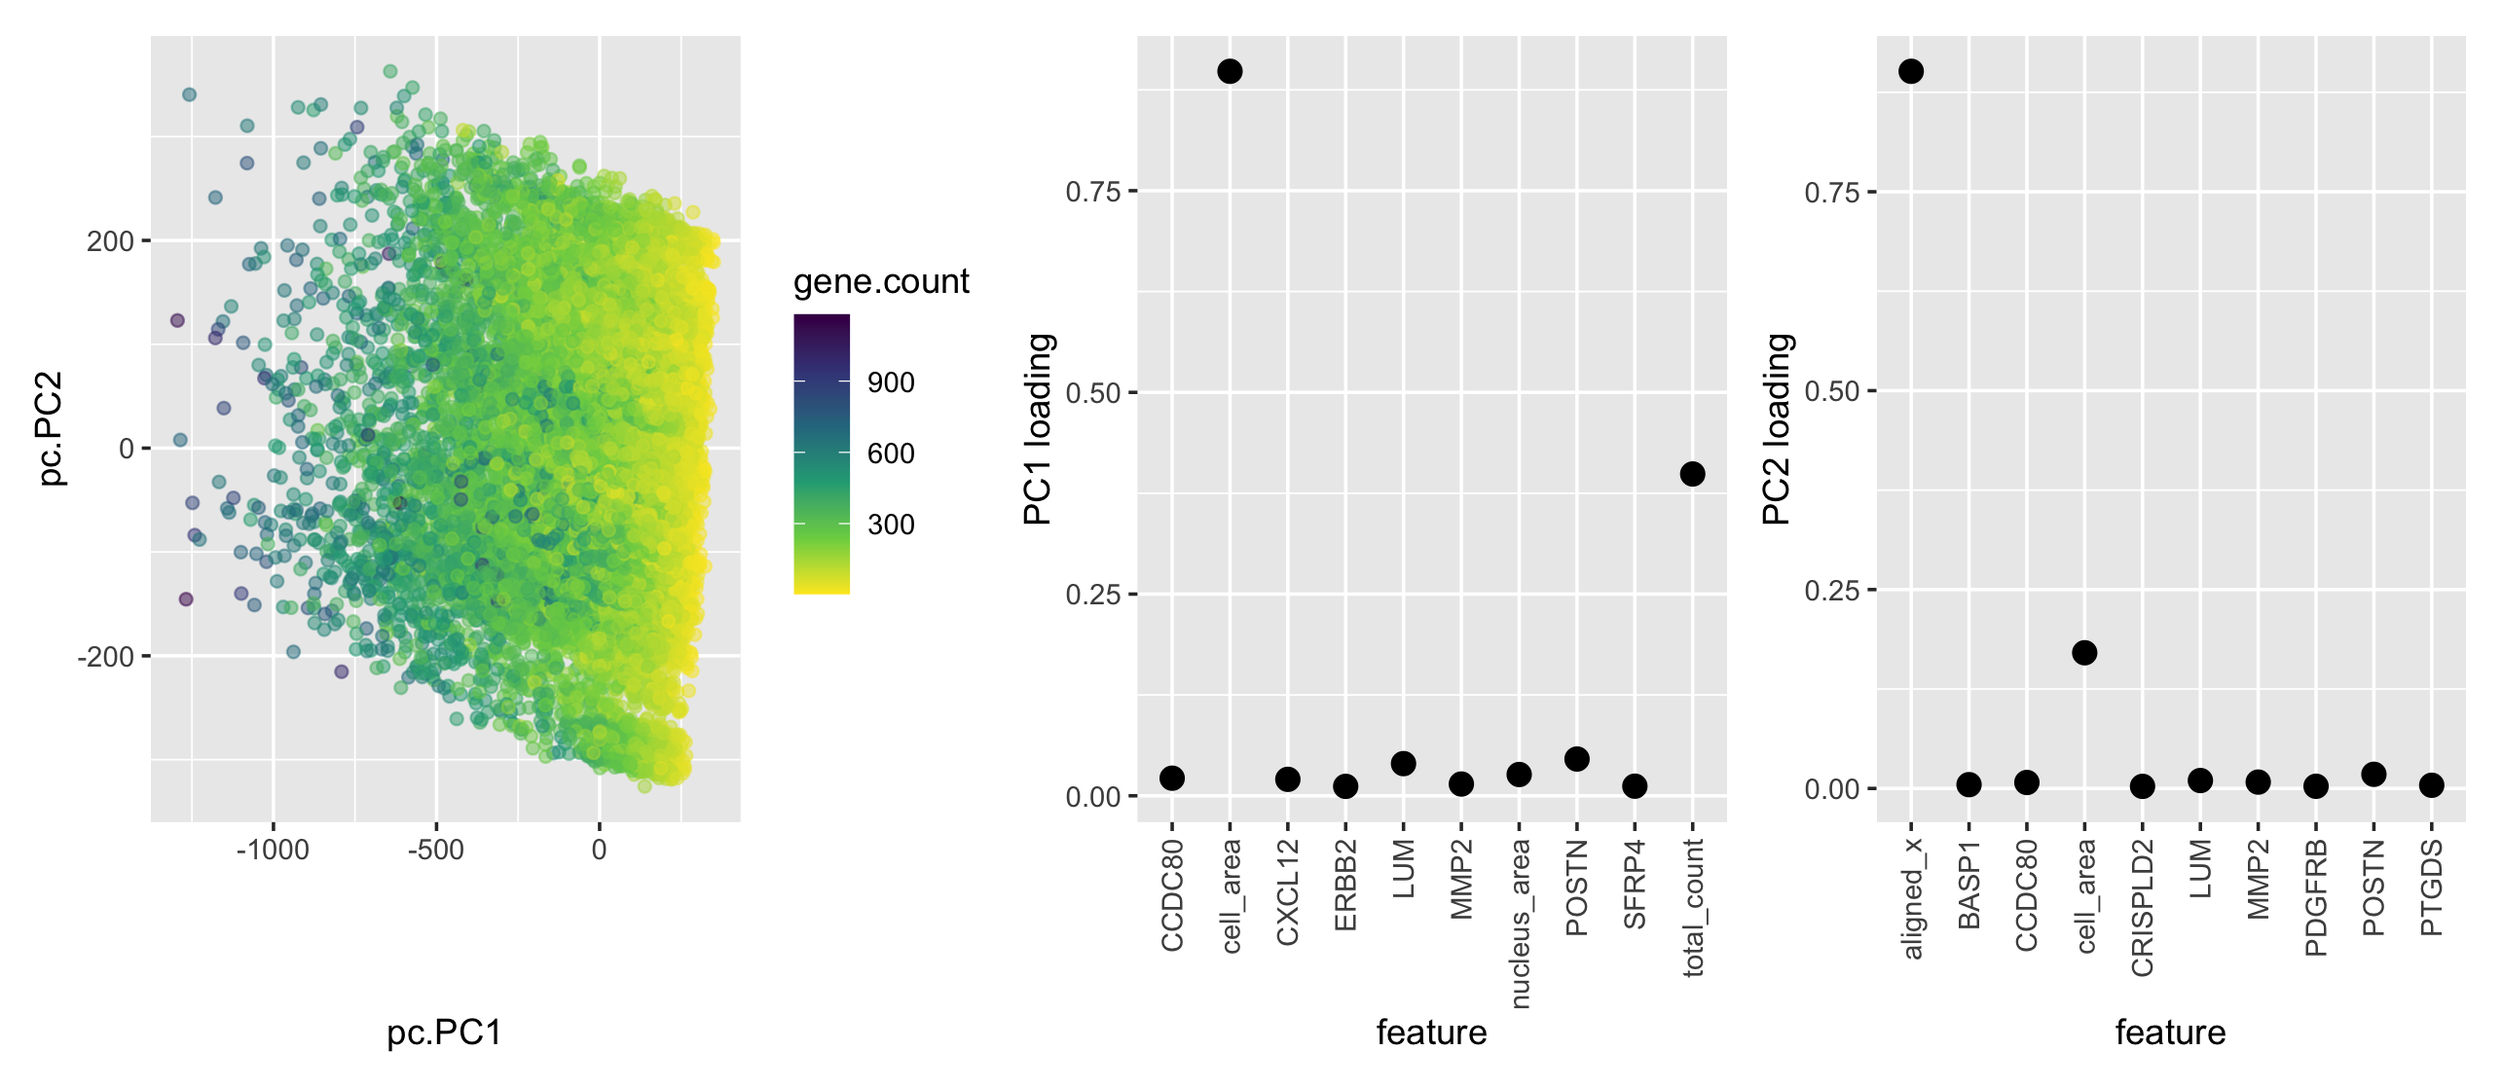
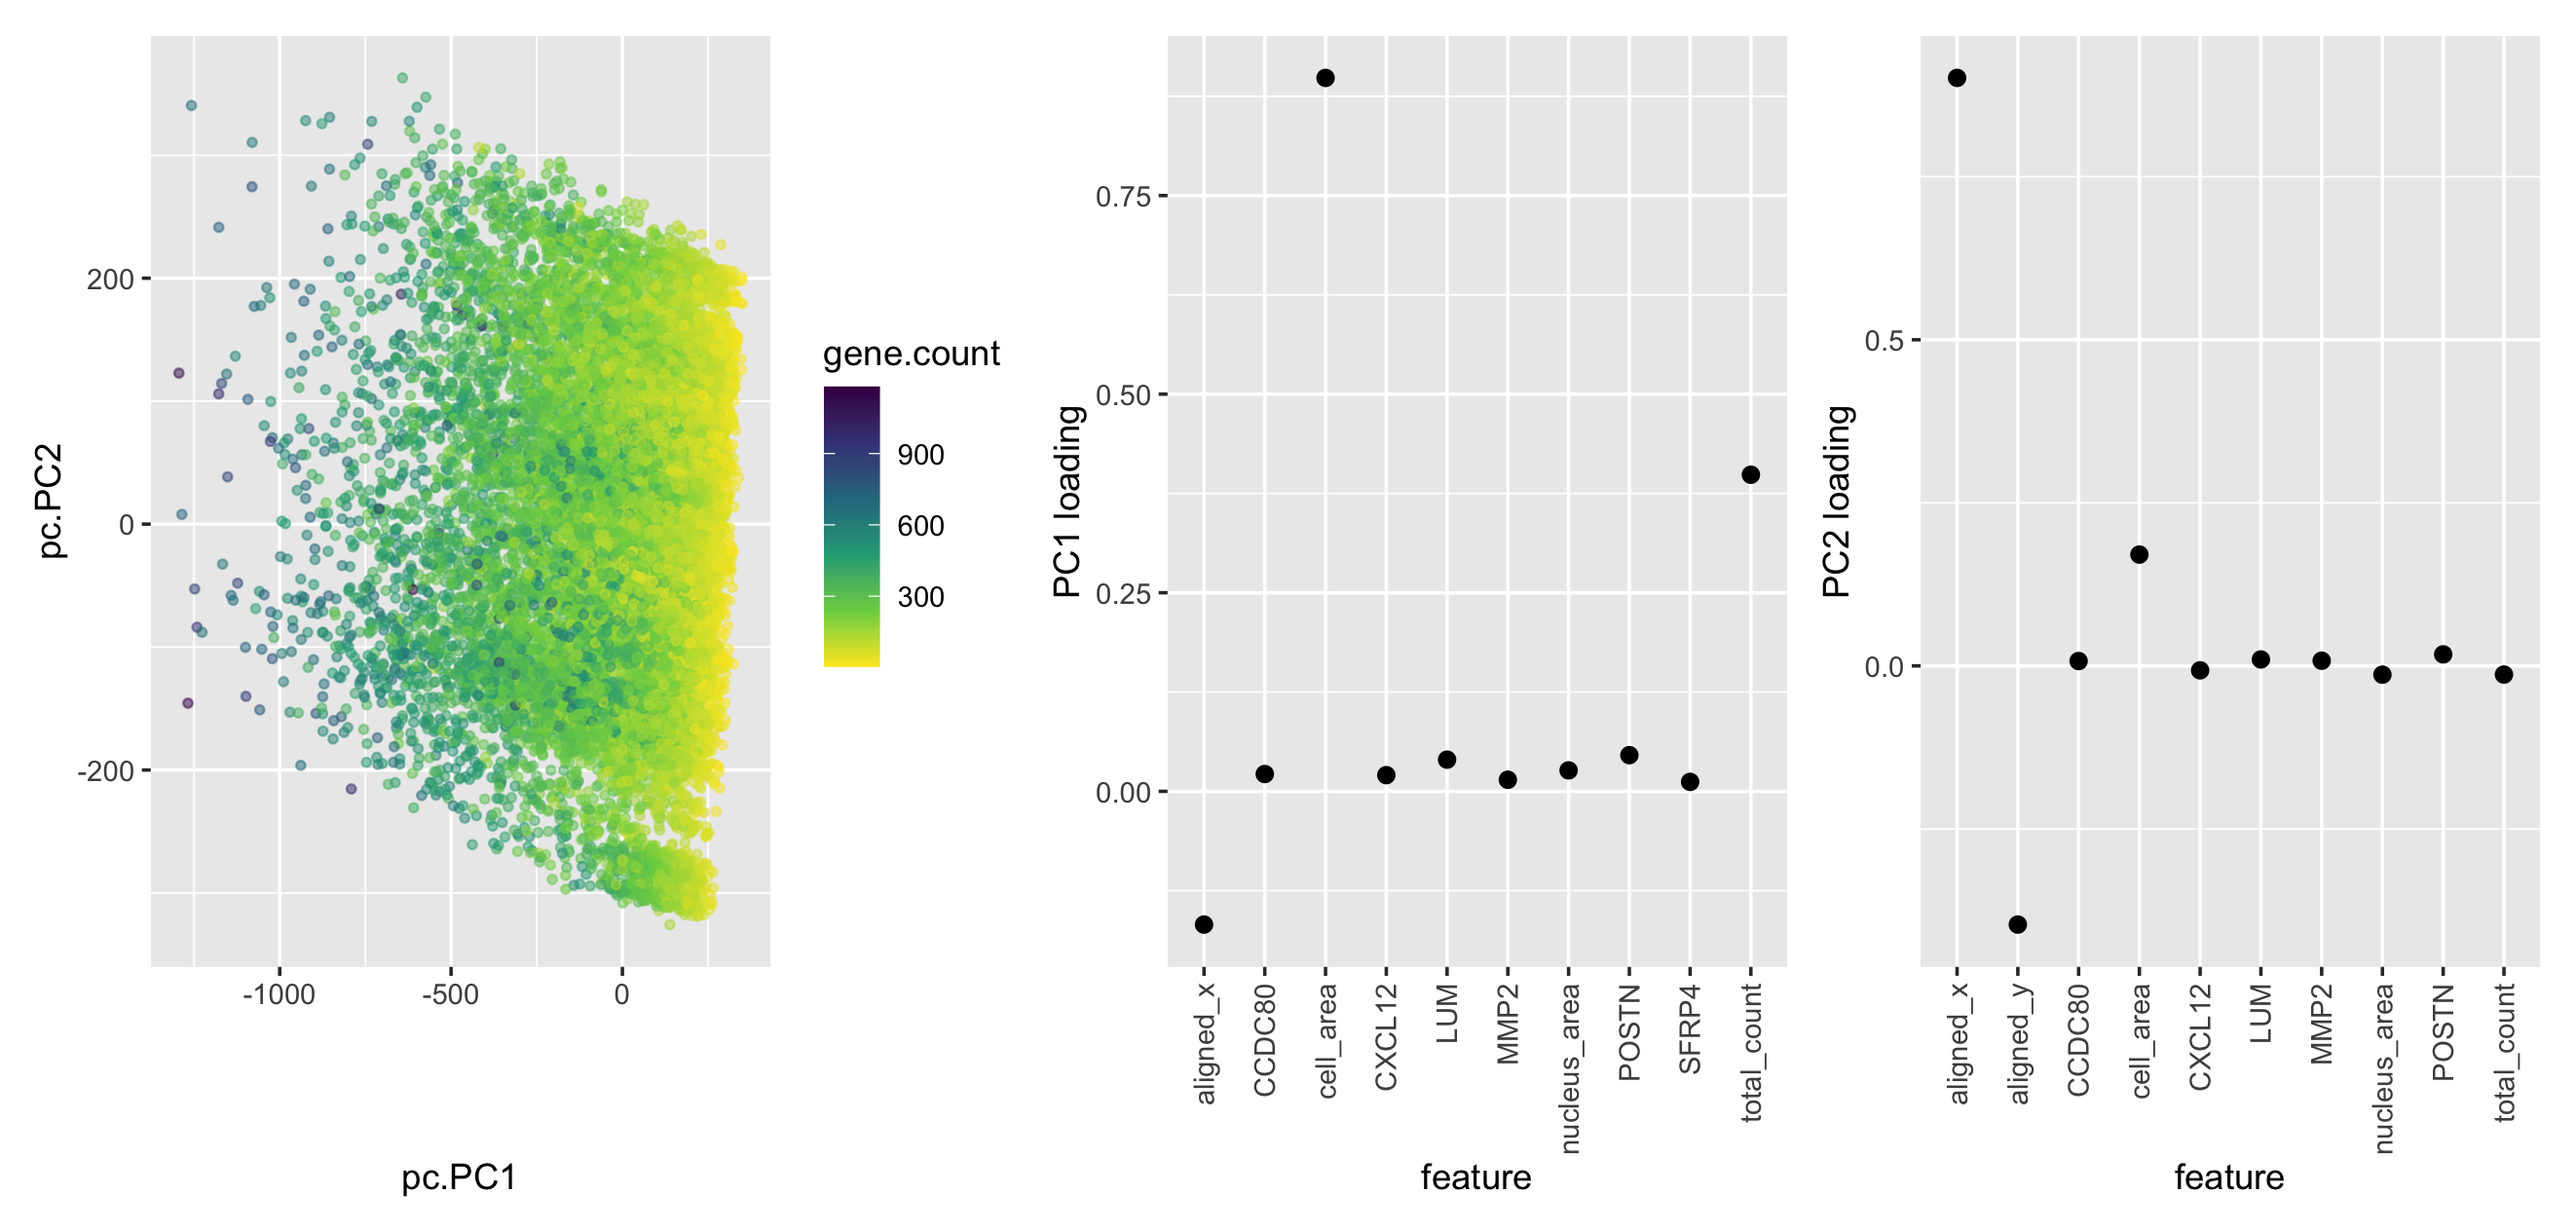
revise hw3 png and md files

diff --git a/_posts/2024-02-04-yyan67.md b/_posts/2024-02-04-yyan67.md
@@ -10,8 +10,9 @@ featured: false
 
 ## What genes (or other cell features such as area or total genes detected) are driving my reduced dimensional components?
 
-Write a description describing your data visualization using vocabulary terms from Lesson 1. You must include the entire code you used to generate the figure so that it can be reproduced. You must provide attribution to external resources referenced (if any) in writing your code. 
+My plot includes three panels, which are respectively the PC plot with each cell labeled by gene count, top 10 features with the highest absolute loading value in PC1, top 10 features with the highest absolute loading values in PC2. In the PC plot, I am using the geometric primitive of points to represent each cell. To encode the total gene count, I am using the visual channel of color hue. To encode the PC1 and PC2 position, I am using the visual channel of position along the PC1 and PC2 axis. I applied the Gestalt principle, similarity, by using similar color for cells with similar total gene counts. In the two PC loading plots, I am using the geometric primitive of points to represent each loading value corresponding to each feature. For the visual channel, I am using the position of y to represent loading values. 
 
+As we can observe from the second plot, aligned_x, cell_area, and total_count of genes, which have the largest absolute values of loading, for each cell are driving PC1. The third plot demonstrates that aligned_x, aligned_y, and cell_area are driving PC2. 
 
 ## Please share the code you used to reproduce this data visualization.
 ```{r}
@@ -40,3 +41,6 @@ p3 <- load.df %>% top_n(10, Comp.2) %>% ggplot(aes(x=feature, y=Comp.2)) +
   theme(axis.text.x = element_text(angle = 90, vjust = 0.5, hjust=1))
 p1+p2+p3
 ```
+
+### external resources:
+https://dplyr.tidyverse.org/reference/top_n.html 
